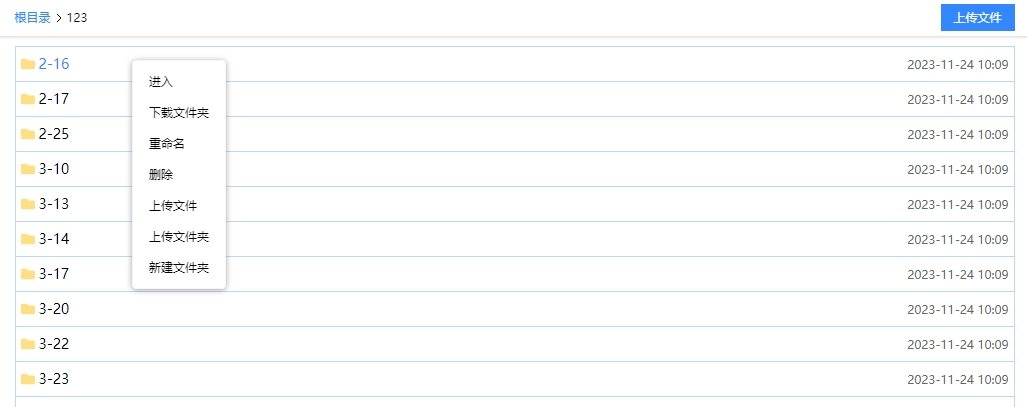
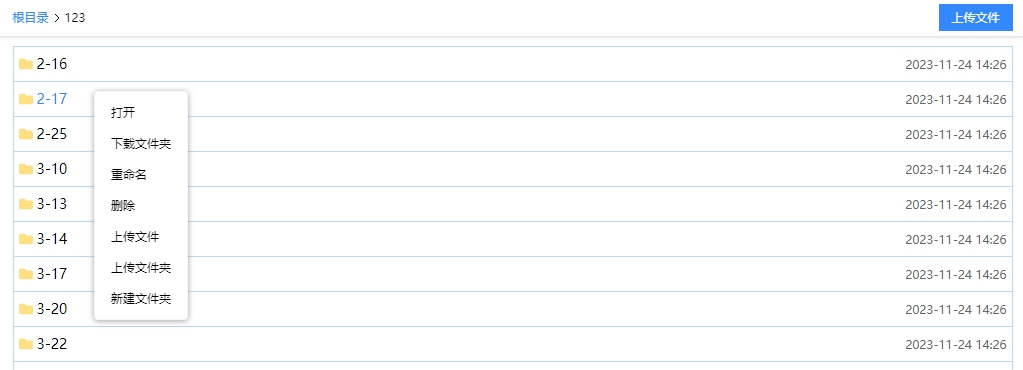
fix

diff --git a/index.js b/index.js
@@ -112,6 +112,7 @@ app.post("/uploads", upload.array("files"), (req, res) => {
 
 app.post("/list", async (req, res) => {
   const paths = req.body.filePath || [];
+  const isDirectory = req.body.isDirectory || false;
   try {
     const files = await readdir(path.join(dest, ...paths));
     if (!files.length) {
@@ -136,7 +137,8 @@ app.post("/list", async (req, res) => {
         hasDel,
       });
     }
-    return res.send({ code: 200, data: ret });
+    const data = isDirectory ? ret.filter((i) => i.isDirectory) : ret;
+    return res.send({ code: 200, data });
   } catch (err) {
     console.error(err);
     return res.status(500).send({ message: "读取目录失败" });

diff --git a/public/script.js b/public/script.js
@@ -50,7 +50,7 @@ const setup = function () {
         getList();
       },
       0: () => {
-        entryDirectory(item);
+        entryDirectory(item.value);
       },
       1: () => {
         handleDownload(item.value);
@@ -62,7 +62,10 @@ const setup = function () {
         }, 100);
       },
       3: () => {
-        handleDelete(item.value.filePath);
+        handleMenuHide();
+        setTimeout(() => {
+          handleDelete(item.value.filePath);
+        }, 100);
       },
       4: () => {
         handleUpload();

diff --git a/public/hooks/menu.js b/public/hooks/menu.js
@@ -13,7 +13,7 @@ export default (cb) => {
       menuItems.value = [
         ...(item.isDirectory
           ? [
-              { text: "进入", action: "0", value: item },
+              { text: "打开", action: "0", value: item },
               { text: "下载文件夹", action: "1", value: item },
             ]
           : [{ text: "下载", action: "1", value: item }]),

diff --git a/readme.md b/readme.md
@@ -4,12 +4,12 @@
 
 - [x] 多文件上传
 - [x] 文件夹上传
-- [x] 文件下载
-- [x] 文件夹打包下载
+- [x] 文件下载和文件夹打包下载
 - [x] 文件和文件夹删除
-- [x] 文件和文件夹重命名
+- [x] 重命名
 - [x] 新建文件夹
-- [x] 文件拖动进入文件夹
+- [x] 文件拖进文件夹
+- [ ] 文件移动
 
 ## 配置文件 config.json
 
@@ -23,6 +23,4 @@
 
 ## 演示图
 
-![演示图](https://raw.githubusercontent.com/JaxBBLL/disk/master/public/1.png "演示图")
-
-![演示图](https://raw.githubusercontent.com/JaxBBLL/disk/master/public/demo.gif "演示图")
+![演示图](./public/1.png "演示图")
